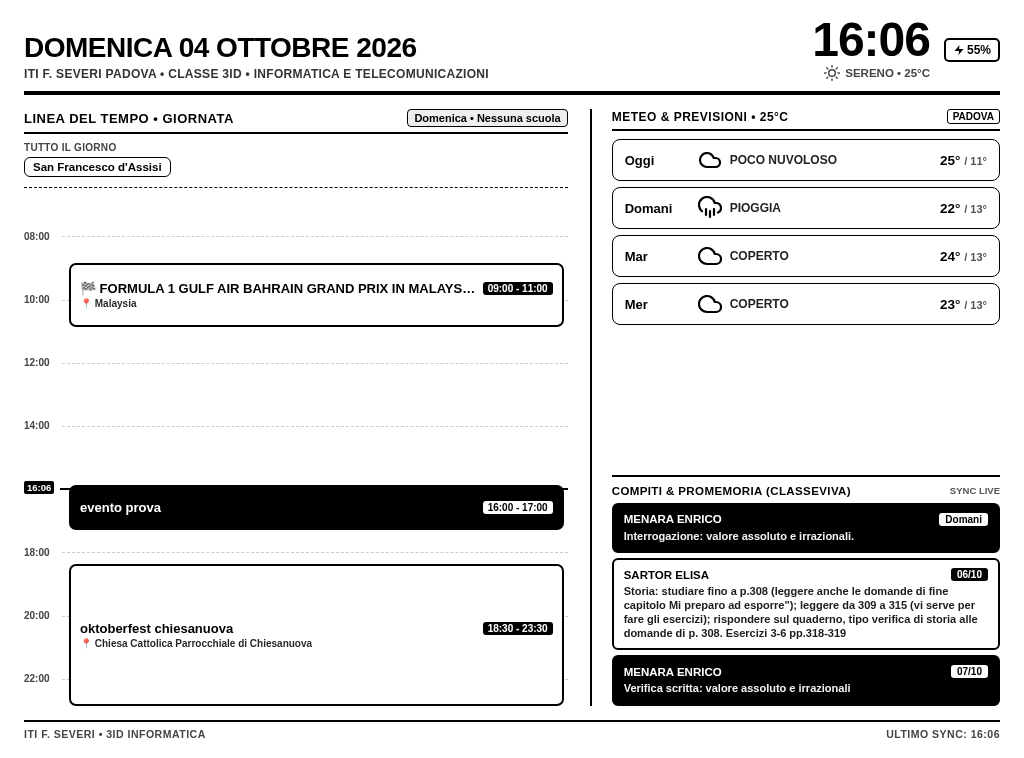
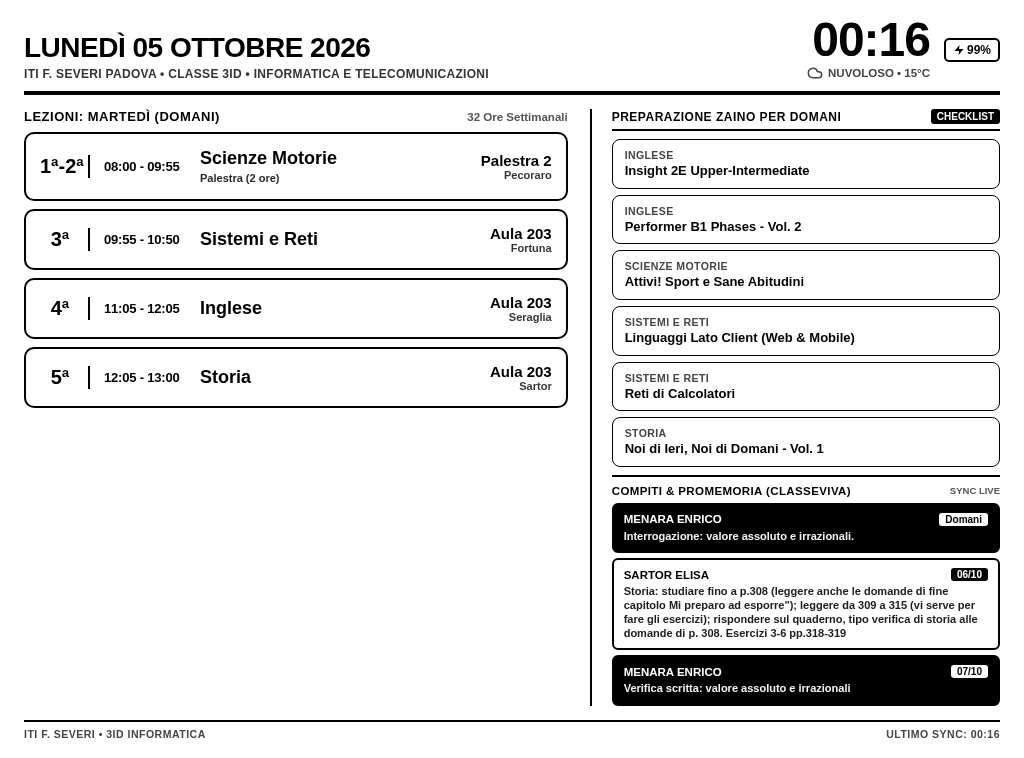
style: remove all emojis and enforce strict professional design across docs, logs, and UI

diff --git a/server.py b/server.py
@@ -11,6 +11,25 @@ BASE_DIR = os.path.dirname(os.path.abspath(__file__))
 DATA_DIR = os.path.join(BASE_DIR, "data")
 STATIC_DIR = os.path.join(BASE_DIR, "static")
 
+_EMOJI_PATTERN = re.compile(
+    r"[\U0001F600-\U0001F64F"
+    r"\U0001F300-\U0001F5FF"
+    r"\U0001F680-\U0001F6FF"
+    r"\U0001F1E0-\U0001F1FF"
+    r"\U00002702-\U000027B0"
+    r"\U000024C2-\U0001F251"
+    r"\U0001F900-\U0001F9FF"
+    r"\U0001FA70-\U0001FAFF"
+    r"\U00002600-\U000026FF]+",
+    flags=re.UNICODE
+)
+
+def strip_emojis(text):
+    if not text:
+        return ""
+    cleaned = _EMOJI_PATTERN.sub("", text)
+    return " ".join(cleaned.split()).strip()
+
 # Carica orario corretto (32 ore settimanali e blocchi 2 ore) e libri
 with open(os.path.join(DATA_DIR, "orario_3id.json"), "r", encoding="utf-8") as f:
     ORARIO_DATA = json.load(f)
@@ -251,7 +270,10 @@ def get_icloud_events(env):
                 now_str = datetime.now().strftime("%Y%m%d")
                 start = cur.get("start_raw", "")
                 end = cur.get("end_raw", "")
-                summ = cur.get("summary", "")
+                summ = strip_emojis(cur.get("summary", ""))
+                cur["summary"] = summ
+                cur["location"] = strip_emojis(cur.get("location", ""))
+                cur["desc"] = strip_emojis(cur.get("desc", ""))
                 if start.startswith(now_str) or not start:
                     is_allday = True
                     start_min = 0
@@ -461,9 +483,9 @@ def get_classeviva_agenda(env):
 
         for item in raw_items:
             compiti.append({
-                "materia": item["materia"],
+                "materia": strip_emojis(item["materia"]),
                 "data": item["data"],
-                "descrizione": item["descrizione"],
+                "descrizione": strip_emojis(item["descrizione"]),
                 "is_test": item["is_test"]
             })
 
@@ -714,11 +736,15 @@ def build_dashboard_html(query_params):
 
                 # Se il blocco è alto almeno il 13% (circa 1 ora e mezza / 2 ore), c'è spazio per il luogo
                 if height_pct >= 12.0 and loc_text:
-                    extra_details_html += f'<div style="font-size:10px;font-weight:700;opacity:0.85;margin-top:2px;white-space:nowrap;overflow:hidden;text-overflow:ellipsis;">📍 {loc_text}</div>'
+                    clean_loc = strip_emojis(loc_text)
+                    if clean_loc:
+                        extra_details_html += f'<div style="font-size:10px;font-weight:700;opacity:0.85;margin-top:2px;white-space:nowrap;overflow:hidden;text-overflow:ellipsis;"><svg width="9" height="9" viewBox="0 0 24 24" fill="none" stroke="currentColor" stroke-width="2.5" style="display:inline-block;vertical-align:-1px;margin-right:3px;"><path d="M21 10c0 7-9 13-9 13s-9-6-9-13a9 9 0 0 1 18 0z"></path><circle cx="12" cy="10" r="3"></circle></svg>{clean_loc}</div>'
 
                 # Se il blocco è ancora più alto (oltre 18%, cioè 3+ ore), mostra anche la descrizione/note
                 if height_pct >= 18.0 and desc_text:
-                    extra_details_html += f'<div style="font-size:9.5px;font-weight:600;opacity:0.75;margin-top:2px;line-height:1.2;overflow:hidden;display:-webkit-box;-webkit-line-clamp:2;-webkit-box-orient:vertical;">{desc_text}</div>'
+                    clean_desc = strip_emojis(desc_text)
+                    if clean_desc:
+                        extra_details_html += f'<div style="font-size:9.5px;font-weight:600;opacity:0.75;margin-top:2px;line-height:1.2;overflow:hidden;display:-webkit-box;-webkit-line-clamp:2;-webkit-box-orient:vertical;">{clean_desc}</div>'
 
                 # Evidenzia se l'impegno è in corso adesso
                 is_active = (s_min <= now_min <= e_min)

diff --git a/render_loop.py b/render_loop.py
@@ -21,7 +21,7 @@ async def render_for_timestamp(page, target_ts):
         os.replace(ROT_TMP, ROT_IMG)
     dt_str = time.strftime('%H:%M:%S', time.localtime(target_ts))
     elapsed = time.time() - t0
-    print(f"[{time.strftime('%H:%M:%S')}] 📸 Snapshot target {dt_str} completato in {elapsed:.2f}s e pronto su /api/image!")
+    print(f"[{time.strftime('%H:%M:%S')}] [RENDER] Snapshot target {dt_str} completato in {elapsed:.2f}s e pronto su /api/image")
 
 async def main():
     print(f"=== KINDLE CALENDAR RENDERING ENGINE AD ALTA PRECISIONE (PORT {PORT}) ===")

diff --git a/README.md b/README.md
@@ -1,19 +1,19 @@
-# 📖 Kindle Calendar Dashboard (E-Ink Smart Kiosk)
+# Kindle Calendar Dashboard (E-Ink Smart Kiosk)
 
 [![License: MIT](https://img.shields.io/badge/License-MIT-black.svg)](LICENSE)
 [![Platform](https://img.shields.io/badge/Platform-Kindle%20Paperwhite-lightgrey.svg)](#)
 [![Python](https://img.shields.io/badge/Python-3.10%2B-blue.svg)](#)
 [![Display](https://img.shields.io/badge/Display-E--Ink%20Monochrome-black.svg)](#)
 
-Un cruscotto intelligente ad alto contrasto per **Kindle Paperwhite (PW1 / PW2 / PW3 / PW4)** jailbroken, trasformato in uno smart display da scrivania a bassissimo consumo.
+Architettura e suite software per trasformare un **Amazon Kindle Paperwhite (PW1 / PW2 / PW3 / PW4)** con jailbreak in uno smart display da scrivania a basso consumo energetico e ad alto contrasto.
 
-Sincronizza e visualizza in tempo reale:
-- **Linea del tempo giornaliera (07:00–23:00):** con orologio atomico e badge di posizione sincronizzati al millisecondo.
-- **Calendario macOS & iCloud:** deduplicazione automatica degli eventi, supporto eventi full-day e impegni a orario.
-- **Agenda Scolastica (ClasseViva Spaggiari):** compiti e verifiche con classificazione semantica tramite **Groq LLM** (distinzione accurata tra verifiche reali e compiti normali).
-- **Meteo locale ad alta efficienza:** previsioni a 3 giorni tramite Open-Meteo (senza API key).
-- **Percentuale batteria reale & ricarica (⚡):** rilevamento dal circuito hardware del Kindle.
-- **Auto-Luminosità Notturna (PWM Hardware Shutdown):** spegnimento hardware dei LED frontlight (0%) alle **22:00** e riaccensione al 50% alle **06:30**.
+Il sistema aggrega e visualizza in tempo reale:
+- **Linea temporale giornaliera (07:00 - 23:00):** layout proporzionale con orologio atomico e indicatore di avanzamento sincronizzati al minuto esatto.
+- **Integrazione Apple Calendar e iCloud:** sincronizzazione bidirezionale, deduplicazione intelligente degli eventi, gestione eventi per l'intera giornata e impegni a orario.
+- **Registro Elettronico Scolastico (ClasseViva Spaggiari):** estrazione automatica di compiti e verifiche con analisi semantica via **Groq LLM** per la classificazione puntuale tra prove di verifica e compiti ordinari.
+- **Previsioni Meteorologiche Locali:** integrazione con Open-Meteo API per previsioni a 3 giorni con icone vettoriali SVG monocromatiche native.
+- **Monitoraggio Batteria e Stato Alimentazione:** lettura diretta dai registri hardware del controller di carica del dispositivo.
+- **Gestione Hardware della Luminosita (PWM Shutdown):** spegnimento fisico dei LED frontlight (0%) tra le **22:00** e le **06:30**, con riaccensione al 50% alle **06:30**.
 
 ---
 
@@ -21,70 +21,71 @@ Sincronizza e visualizza in tempo reale:
 
 ---
 
-## 🏛 Architettura di Sistema
+## Architettura di Sistema
 
 ```mermaid
 flowchart TD
-    subgraph Client ["🖥 macOS Client"]
+    subgraph Client ["macOS Client"]
         A[Apple Calendar.app] -->|AppleScript| B[sync_calendar.py]
         B -->|SCP / rsync| C[calendar_feed.ics]
     end
 
-    subgraph Server ["🐧 Linux Server / LXC 141"]
+    subgraph Server ["Linux Server / LXC Container"]
         C --> D[server.py HTTP Server :5055]
         CV[ClasseViva API] -->|Cache 1h| D
         GQ[Groq LLM API] -->|Classificazione| D
         OM[Open-Meteo API] --> D
         D --> E[HTML Dashboard Template]
         E -->|Pre-render a :55| F[render_loop.py - Playwright Headless Chromium]
-        F -->|ImageMagick 90°| G[/api/image - PNG 758x1024]
+        F -->|ImageMagick 90 deg| G[/api/image - PNG 758x1024]
     end
 
-    subgraph Kindle ["📱 Kindle Paperwhite"]
-        H[kindle_kiosk.sh Daemon] -->|curl a :00.0| G
+    subgraph Kindle ["Kindle Paperwhite Kiosk"]
+        H[kindle_kiosk.sh Daemon] -->|HTTP GET a :00.0| G
         H -->|gasgauge-info / lipc| D
-        H -->|FBInk Framebuffer| I[Display E-Ink]
+        H -->|FBInk Framebuffer| I[E-Ink Display]
         H -->|sysfs PWM| J[LED Frontlight 0% / 50%]
     end
 ```
 
 ---
 
-## ✨ Funzionalità Principali
+## Specifiche Tecniche e Funzionalita
 
-### ⏱ Sincronizzazione Atomica al Secondo (:00)
-- Il server Chromium in RAM renderizza a **`:55`** lo snapshot già etichettato per il minuto successivo $M+1$.
-- Alle **`:56.5`** l'immagine ruotata a 90° è salvata su disco con rename atomico POSIX.
-- Il Kindle si risveglia esattamente a **`:00.0`**, scarica il file in ~50ms e disegna con FBInk in ~250ms: alle **`:00.3`** lo schermo è già aggiornato senza alcun ritardo.
+### Sincronizzazione Atomica (:00)
+- Il motore di rendering Playwright Chromium e mantenuto residente in memoria RAM per azzerare i tempi di cold-start.
+- Lo snapshot per il minuto successivo viene elaborato a **`:55`** del minuto corrente ed etichettato con il timestamp target.
+- L'immagine ruotata a 90 gradi viene salvata su disco tramite operazione atomica POSIX (`rename`).
+- Il demone client del Kindle si risveglia a **`:00.0`**, effettua il download in ~50ms e disegna sul framebuffer via FBInk in ~250ms, completando l'aggiornamento visivo entro i primi 300 millisecondi del minuto solare.
 
-### 🧠 Filtro Intelligente Verifiche (Groq LLM)
-- I compiti scaricati dal registro elettronico vengono analizzati da un modello LLM ultraveloce (`qwen/qwen3.8-27b` su Groq).
-- Riconosce le frasi ambigue (es. *"rispondere sul quaderno, tipo verifica di storia alle domande..."* non viene scambiata per una vera verifica).
-- Le verifiche reali vengono evidenziate con card nera ad alto contrasto.
+### Classificazione Semantica Verifiche (Groq LLM)
+- I dati estratti dall'agenda scolastica vengono elaborati tramite il modello di inferenza veloce `qwen/qwen3.8-27b` su Groq.
+- L'analisi contestuale previene i falsi positivi (ad esempio formulazioni come *"rispondere sul quaderno, tipo verifica di storia alle domande..."* vengono correttamente identificate come compiti ed escluse dalle verifiche).
+- Le verifiche reali vengono evidenziate visivamente con inversione cromatica ad alto contrasto.
 
-### 🌙 Gestione Luminosità Hardware (0% Notte / 50% Giorno)
-- I Kindle Paperwhite non spengono i LED con i comandi software standard (rimangono al livello hardware 1).
-- Il demone kiosk forza lo spegnimento fisico sul controller PWM `/sys/devices/system/fl_tps6116x/fl_tps6116x0/fl_intensity` a `0` tra le **22:00** e le **06:30**, azzerando qualunque emissione luminosa nella stanza.
-- Alle **06:30** ripristina la luminosità al **50%** (livello 12 di 24).
+### Controllo Hardware Frontlight Notturno
+- Il framework standard di Amazon non disattiva completamente i LED frontlight quando impostato a livello zero via interfaccia utente.
+- Lo script kiosk interagisce direttamente con il controller PWM del kernel Linux (`/sys/devices/system/fl_tps6116x/fl_tps6116x0/fl_intensity`), garantendo lo spegnimento fisico completo durante la fascia notturna (22:00 - 06:30).
+- Alle 06:30 il controller ripristina la luminosita al 50% (livello 12 di 24).
 
 ---
 
-## 🚀 Guida all'Installazione
+## Installazione e Configurazione
 
 ### 1. Requisiti Server (Linux / LXC / Docker)
-- Python 3.10+
+- Python 3.10 o superiore
 - ImageMagick (`convert`)
-- Chromium e dipendenze Playwright
+- Browser Chromium e relative librerie di sistema
 
 ```bash
-# Dipendenze di sistema (Debian/Ubuntu)
-sudo apt update && sudo apt install -y python3 python3-venv imagemagick curl
+# Installazione pacchetti di sistema (Debian / Ubuntu)
+sudo apt update && sudo apt install -y python3 python3-venv imagemagick curl git
 
-# Clone del repository
+# Clonazione repository
 git clone https://github.com/Gianlu1107/kindle-calendar.git /opt/kindleCalendar
 cd /opt/kindleCalendar
 
-# Creazione virtual environment
+# Creazione ambiente virtuale Python
 python3 -m venv venv
 ./venv/bin/pip install --upgrade pip
 ./venv/bin/pip install -r requirements.txt
@@ -95,6 +96,13 @@ python3 -m venv venv
 cp .env.example .env
 nano .env
 ```
+
+Oppure eseguire direttamente lo script di configurazione automatica:
+```bash
+sudo ./setup.sh
+```
+
+---
 
 ### 2. Configurazione Servizi Systemd
 
@@ -107,7 +115,7 @@ sudo systemctl enable --now kindle-server.service
 sudo systemctl enable --now kindle-renderer.service
 ```
 
-Verifica lo stato dei servizi:
+Stato di esecuzione:
 ```bash
 systemctl status kindle-server.service
 systemctl status kindle-renderer.service
@@ -117,26 +125,21 @@ systemctl status kindle-renderer.service
 
 ### 3. Setup del Kindle Paperwhite (Client Kiosk)
 
-#### Prerequisiti sul Kindle:
+#### Prerequisiti:
 1. Jailbreak attivo sul Kindle Paperwhite.
-2. **KUAL** (Kindle Unified Application Launcher) installato.
-3. **USBNetwork** installato e configurato (con SSH abilitato su Wi-Fi).
-4. **FBInk** installato in `/mnt/us/usbnet/bin/fbink`.
+2. KUAL (Kindle Unified Application Launcher) installato.
+3. Estensione USBNetwork installata (con demone SSH abilitato su interfaccia Wi-Fi).
+4. Utility FBInk posizionata in `/mnt/us/usbnet/bin/fbink`.
 
-#### Installazione Script Kiosk:
-Copia lo script kiosk sul Kindle:
+#### Deploy Client Kiosk:
 ```bash
 scp -i ~/.ssh/kindle_rsa client/kindle_kiosk.sh root@<IP_KINDLE>:/mnt/us/kindle_kiosk.sh
 ssh -i ~/.ssh/kindle_rsa root@<IP_KINDLE> "chmod +x /mnt/us/kindle_kiosk.sh"
 ```
 
-Copia la configurazione Upstart per l'avvio automatico al boot:
+Configurazione Upstart per avvio automatico al boot:
 ```bash
 scp -i ~/.ssh/kindle_rsa client/kindle_kiosk.conf root@<IP_KINDLE>:/etc/upstart/kindle_kiosk.conf
-```
-
-Avvia il servizio kiosk:
-```bash
 ssh -i ~/.ssh/kindle_rsa root@<IP_KINDLE> "/sbin/restart kindle_kiosk"
 ```
 
@@ -144,43 +147,43 @@ ssh -i ~/.ssh/kindle_rsa root@<IP_KINDLE> "/sbin/restart kindle_kiosk"
 
 ### 4. Sincronizzazione macOS Calendar (Opzionale)
 
-Se utilizzi l'app Calendario su macOS, puoi sincronizzare automaticamente gli eventi verso il server:
+Per esportare automaticamente gli eventi da Calendar.app verso il server:
 
-1. Modifica `macos_sync/sync_calendar.py` con l'IP e la destinazione del tuo server.
-2. Installa l'agente Launchd su macOS:
+1. Configurare le variabili in `macos_sync/sync_calendar.py`.
+2. Registrare il job di background in launchd:
 ```bash
 cp macos_sync/com.kindle.calendarsync.plist.example ~/Library/LaunchAgents/com.kindle.calendarsync.plist
-nano ~/Library/LaunchAgents/com.kindle.calendarsync.plist # adatta il path al tuo utente
+nano ~/Library/LaunchAgents/com.kindle.calendarsync.plist
 launchctl load ~/Library/LaunchAgents/com.kindle.calendarsync.plist
 ```
 
 ---
 
-## ⚙ Variabili d'Ambiente (`.env`)
+## Configurazione Variabili d'Ambiente (`.env`)
 
-| Variabile | Descrizione | Default / Esempio |
+| Parametro | Descrizione | Default / Note |
 |---|---|---|
-| `PORT` | Porta del web server locale | `5055` |
-| `CITY` | Città per le previsioni meteo Open-Meteo | `Padova` |
-| `CLASSEVIVA_USERNAME` | Username o codice utente ClasseViva | Opzionale |
-| `CLASSEVIVA_PASSWORD` | Password ClasseViva | Opzionale |
-| `GROQ_API_KEY` | Chiave API Groq per il filtro LLM verifiche | `gsk_...` (Opzionale) |
-| `ICLOUD_ICAL_URL` | URL pubblico feed iCalendar iCloud | Opzionale |
+| `PORT` | Porta di ascolto del web server locale | `5055` |
+| `CITY` | Citta di riferimento per il meteo Open-Meteo | `Padova` |
+| `CLASSEVIVA_USERNAME` | Identificativo utente ClasseViva | Opzionale |
+| `CLASSEVIVA_PASSWORD` | Password account ClasseViva | Opzionale |
+| `GROQ_API_KEY` | Chiave API per classificazione Groq LLM | Opzionale |
+| `ICLOUD_ICAL_URL` | URL feed iCalendar pubblico/privato | Opzionale |
 | `KINDLE_IP` | Indirizzo IP del Kindle nella rete locale | `192.168.1.28` |
 
 ---
 
-## 🛠 Manutenzione e Troubleshooting
+## Diagnostica e Manutenzione
 
-- **Verifica snapshot live:**
-  Apri nel browser `http://<IP_SERVER>:5055/` per visualizzare la dashboard in tempo reale o scarica `http://<IP_SERVER>:5055/api/image` per l'immagine ruotata a 90°.
-- **NTP Drift sul Kindle:**
-  Lo script client esegue periodicamente `ntpdate -u pool.ntp.org` per mantenere l'allineamento orario a < 5 millisecondi.
-- **Risoluzione schermo:**
-  Ottimizzato nativamente per il display 1024×758 (Kindle Paperwhite 1/2/3/4).
+- **Ispezione snapshot live:**
+  Raggiungere `http://<IP_SERVER>:5055/` da browser per verificare il rendering HTML, oppure scaricare `http://<IP_SERVER>:5055/api/image` per il PNG ottimizzato a 90 gradi.
+- **Sincronizzazione oraria NTP:**
+  Il demone client esegue periodicamente `ntpdate -u pool.ntp.org` per mantenere il drift orario inferiore a 5 millisecondi.
+- **Risoluzione display:**
+  Progettato per la risoluzione 1024x758 landscape (Paperwhite 1/2/3/4).
 
 ---
 
-## 📄 Licenza
+## Licenza
 
-Rilasciato sotto licenza [MIT](LICENSE). Libero per uso personale e commerciale.
+Distribuito sotto licenza [MIT](LICENSE). Libero per uso personale e commerciale.
